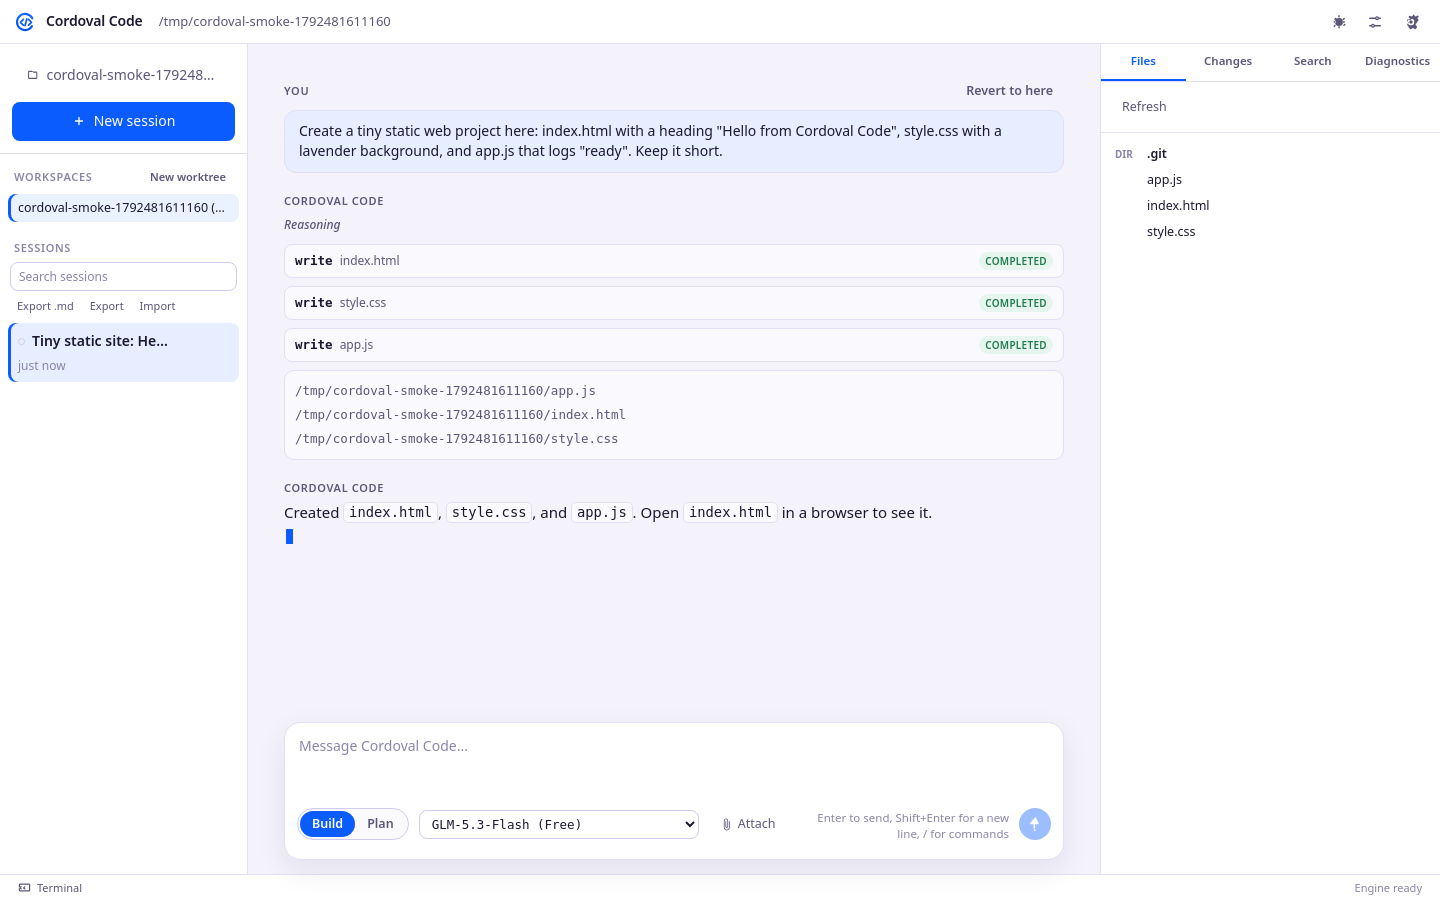
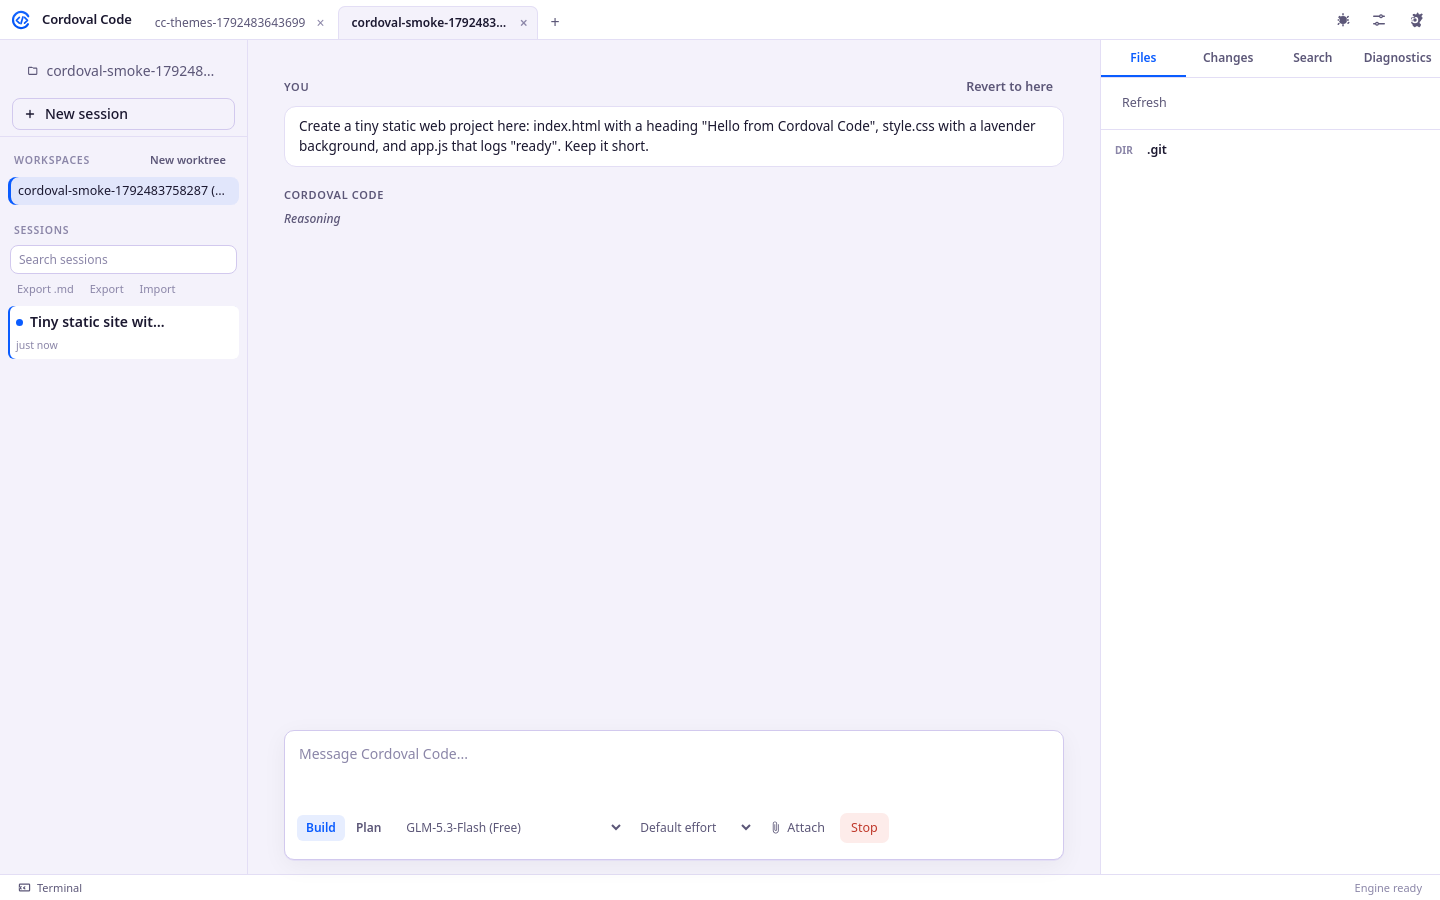
0.6.0: README, refreshed screenshots

diff --git a/README.md b/README.md
@@ -31,6 +31,13 @@ Tests: `test/smoke.js`, `test/e2e.js`, `test/editor.js`, `test/composer.js`, `te
 - 37 colour themes: Cordoval lavender (default) plus OpenCode's desktop themes, each in light and dark.
 - Session history: search across sessions, rename, delete, export to Markdown, export and import JSON. Public share is always off.
 
+- @-mentions in the message box for files, folders and agents, with autocomplete. Mentioned files are sent as context.
+- Reasoning effort / model variant picker per session (Ctrl+Shift+D cycles).
+- Per-line review comments on the Changes diff, sent to the agent in one message.
+- Project tabs in the title bar (Ctrl+T, Ctrl+W, Ctrl+Tab).
+- Rebindable keyboard shortcuts (Ctrl+/ then click a shortcut).
+- Customise changes to agents apply live; other changes wait until no session is running, then restart the engine, so nothing in flight is cut off.
+
 ## Keys (bring your own)
 Settings > Providers: OpenRouter (key or "Sign in with OpenRouter" PKCE), OpenAI, Anthropic,
 Google Gemini, Groq, xAI, plus any OpenAI-compatible endpoint, Ollama and LM Studio presets.
@@ -57,4 +64,4 @@ MIT. Bundles OpenCode (MIT) - see NOTICE.md.
 
 ## Tests
 
-Under `test/` (Playwright + Xvfb): smoke, e2e, slash, templates, editor, lsp, lsp-native, vision, fallback, updater, themes, history, customize, mcp-auth, agents, deny. Set `CORDOVAL_USER_DATA` to run against a throwaway profile.
+Under `test/` (Playwright + Xvfb): smoke, e2e, slash, templates, editor, lsp, lsp-native, vision, fallback, updater, themes, history, customize, mcp-auth, agents, deny, live-apply, mentions, variant, review, tabs-keys. Set `CORDOVAL_USER_DATA` to run against a throwaway profile.
